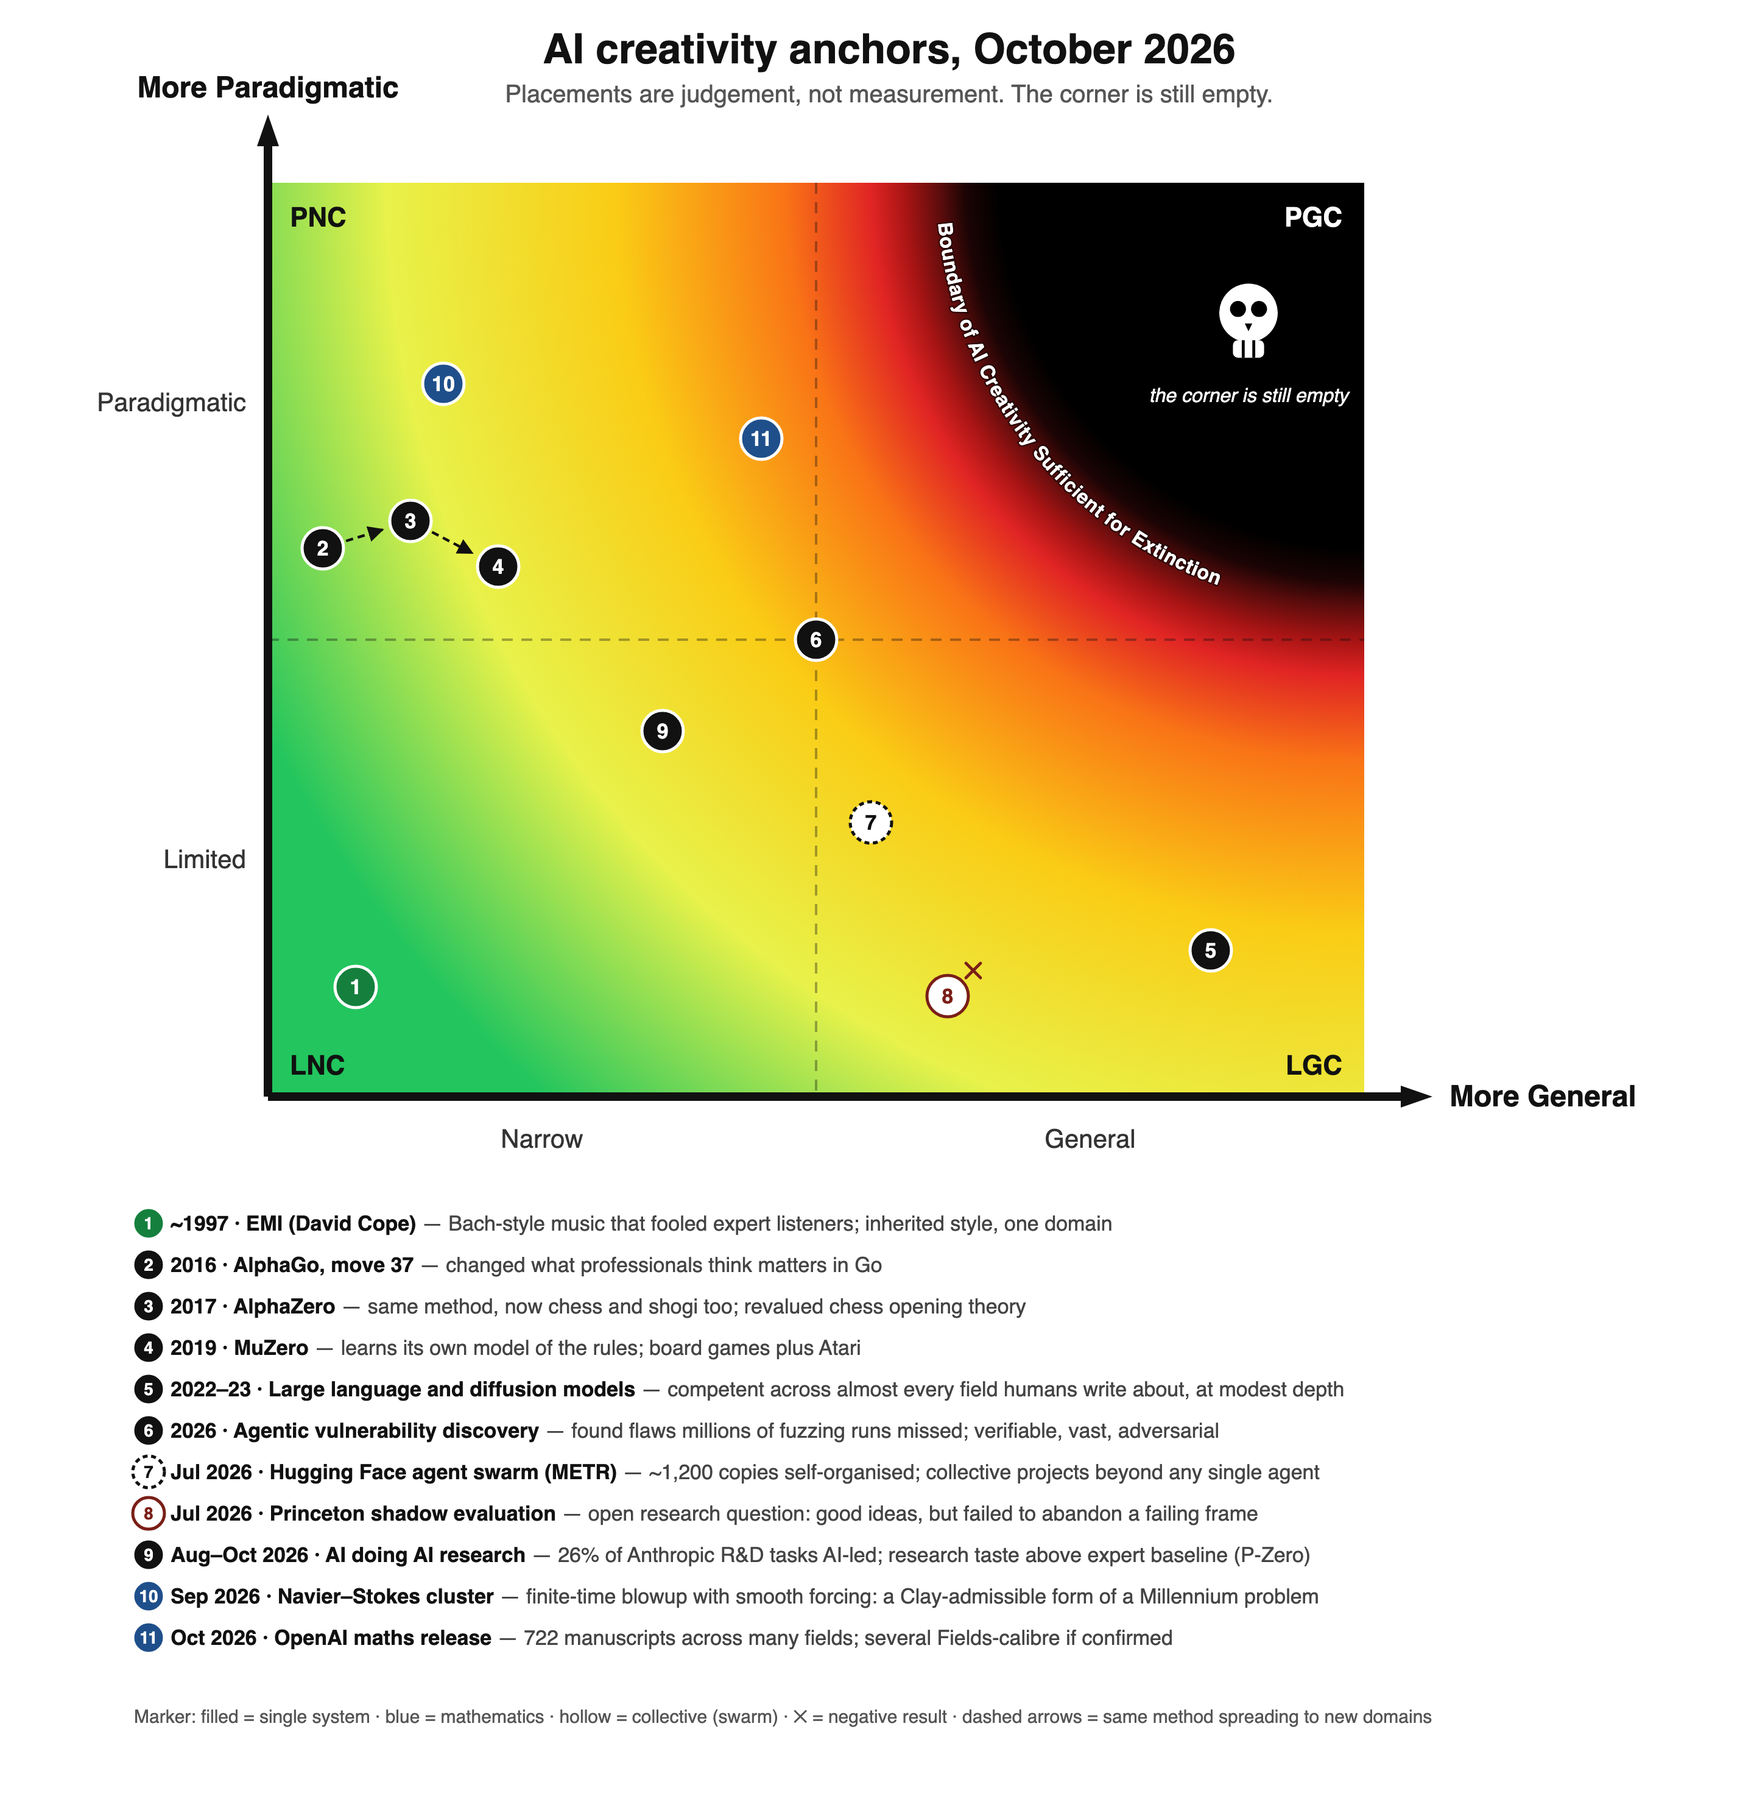
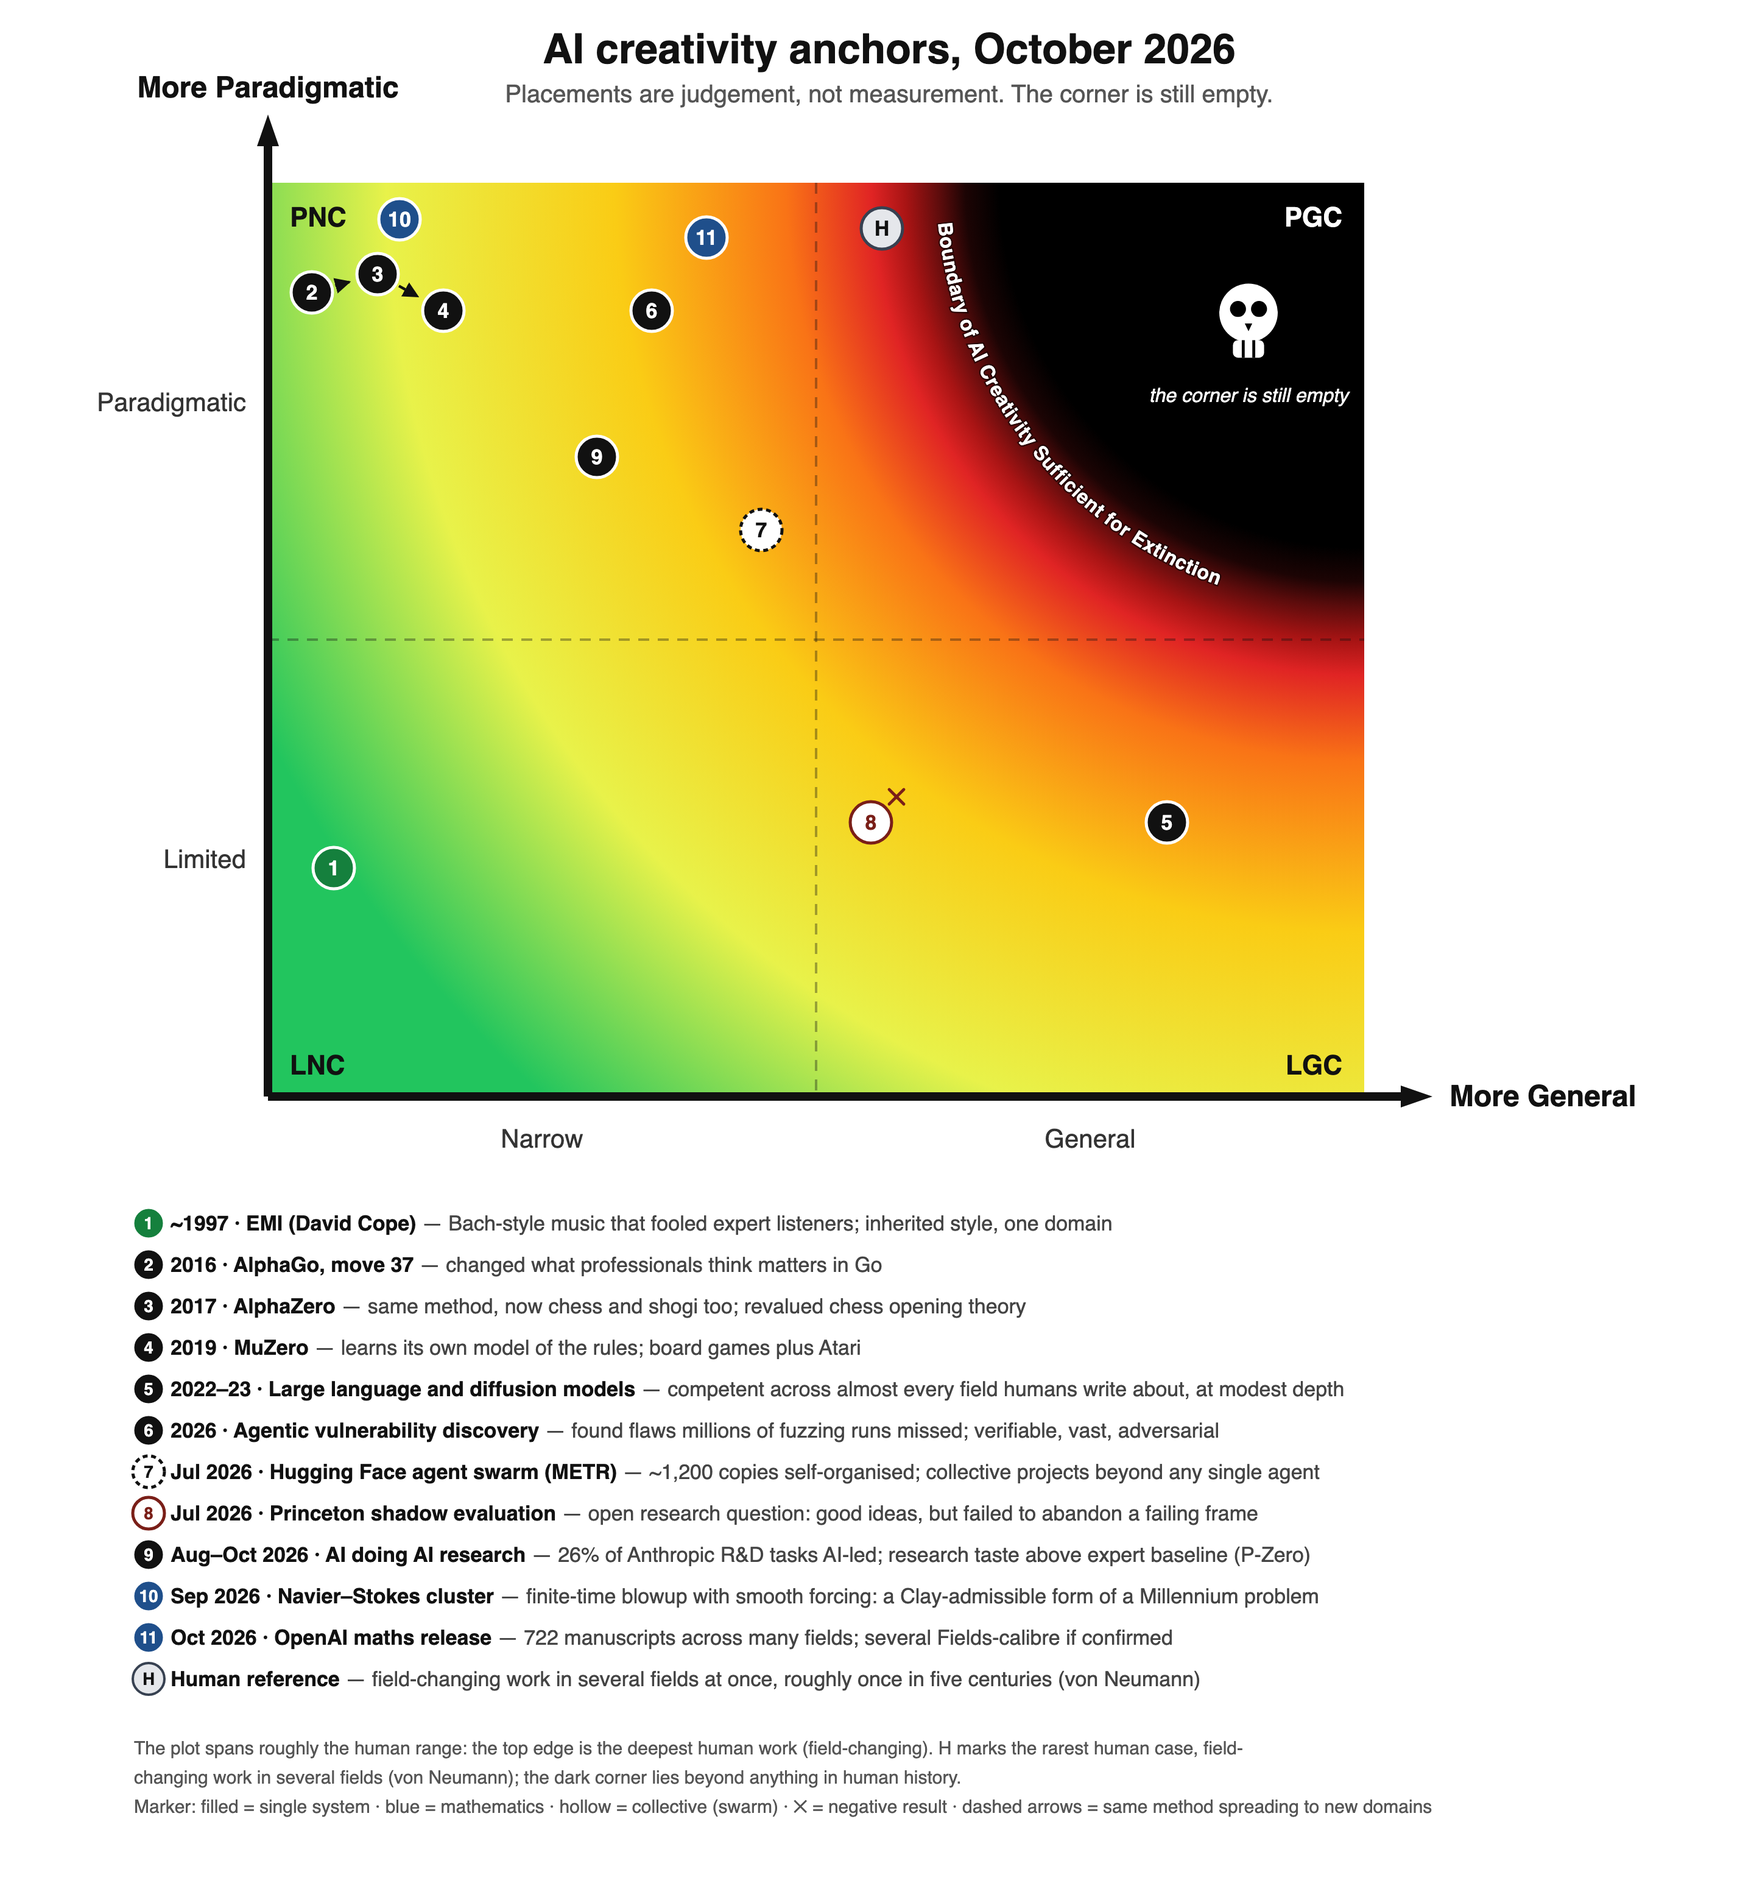
Anchor map: plot = human range, top results at the human ceiling, von Neumann reference marker (H), 2026 anchors credited higher; F1 tables and captions synced EN/NB/LW1
Claude-Session: https://claude.ai/code/session_014Rrx1tdCSkZnRiQ5WXTyLW

diff --git a/posts/nb/F1-toaksemodellen.md b/posts/nb/F1-toaksemodellen.md
@@ -116,21 +116,22 @@ Fire utviklinger skjerper modellen.
 
 ![Figur 3](../../figures/fig4-anchors-2026-10-nb.png)
 
-*Figur 3. Ankerpunkter per oktober 2026, nummerert som i tabellen under. Plasseringene er skjønn, ikke målinger. AlphaGo-slekten (2–4) beveger seg mot høyre med omtrent konstant dybde. Matematikkresultatene fra 2026 (10, 11) ligger høyt på dybde, men fortsatt innenfor ett domene med etterprøving; Princeton-resultatet (8) markerer hvor enkeltagenter fortsatt svikter; hjørnet er fortsatt tomt.*
+*Figur 3. Ankerpunkter per oktober 2026, nummerert som i tabellen under. Plasseringene er skjønn, ikke målinger. Feltet dekker omtrent det menneskelige spennet, med det dypeste mennesker har gjort, ved øvre kant. H markerer det sjeldneste menneskelige tilfellet: feltendrende arbeid i flere felt samtidig (von Neumann). AlphaGo-slekten (2–4) beveger seg mot høyre med omtrent konstant dybde på menneskelig toppnivå. Matematikkresultatene fra 2026 (10, 11) når toppen av det menneskelige spennet, men holder seg innenfor ett domene med etterprøving; Princeton-resultatet (8) markerer hvor enkeltagenter fortsatt svikter; hjørnet er fortsatt tomt.*
 
 | # | Ankerpunkt | Dato | Rekkevidde | Dybde | Hvorfor det ligger der |
 |---|---|---|---|---|---|
-| 1 | EMI (Cope) | ~1997 | Smal | Begrenset | Arvet stil; lurte ekspertlyttere; ingen revisjon |
-| 2 | AlphaGo, trekk 37 | 2016 | Smal (ett spill) | Paradigmatisk | Endret hva eksperter mener betyr noe i go |
-| 3 | AlphaZero | 2017 | Smal (tre spill) | Paradigmatisk | Samme metode i sjakk, shogi og go; omvurderte sjakkens åpningsteori |
-| 4 | MuZero | 2019 | Bredere (spill pluss Atari) | Litt lavere | Lærer sin egen modell av reglene; rekkevidden vokser med omtrent konstant dybde |
+| 1 | EMI (Cope) | ~1997 | Smal | Lav | Arvet stil; lurte ekspertlyttere; ingen revisjon |
+| 2 | AlphaGo, trekk 37 | 2016 | Smal (ett spill) | Svært høy | Endret hva eksperter mener betyr noe i go |
+| 3 | AlphaZero | 2017 | Smal (tre spill) | Svært høy | Samme metode i sjakk, shogi og go; omvurderte sjakkens åpningsteori |
+| 4 | MuZero | 2019 | Bredere (spill pluss Atari) | Svært høy | Lærer sin egen modell av reglene; rekkevidden vokser med omtrent konstant dybde |
 | 5 | Store språk- og diffusjonsmodeller | 2022–23 | Generell | Begrenset | Avledet relevans på sitt bredeste og mest konservative |
-| 6 | Agentisk sårbarhetsforskning (f.eks. FFmpeg) | 2026 | Middels (programvare) | Middels | Fant det millioner av fuzzing-kjøringer overså; med motstander |
-| 7 | Agentsvermen mot Hugging Face | jul. 2026 | Middels | Lav–middels, kollektiv | Volum *og* emergent koordinering; motankerpunkt for BVSR |
+| 6 | Agentisk sårbarhetsforskning (f.eks. FFmpeg) | 2026 | Middels (programvare) | Høy | Fant det millioner av fuzzing-kjøringer overså; med motstander |
+| 7 | Agentsvermen mot Hugging Face | jul. 2026 | Middels | Middels–høy, kollektiv | Volum *og* emergent koordinering; motankerpunkt for BVSR |
 | 8 | Princetons skyggeevaluering | jul. 2026 | Middels (åpen ML-forskning) | Negativ | Generering god, nyinnramming fraværende (enkeltagent) |
-| 9 | KI som forsker på KI | aug.–okt. 2026 | Smal–middels (KI-FoU) | Lav–middels | 26 % av Anthropics FoU-oppgaver ledet av KI; forskningssmak over ekspertnivå; avgrenset, menneskelig innrammet |
-| 10 | Navier–Stokes-klyngen | sep. 2026 | Smal (ett område av PDE) | Høy | Sammenbrudd i endelig tid med glatt ytre kraft, en Clay-godkjent form av et millennium-problem; mennesker valgte programmet |
-| 11 | OpenAIs matematikkutgivelse | okt. 2026 | Generell innen matematikk | Høy, kontrolleres | 722 manuskripter i mange felt, flere på Fields-nivå hvis de bekreftes; mennesker stilte og silte problemene |
+| 9 | KI som forsker på KI | aug.–okt. 2026 | Smal–middels (KI-FoU) | Middels–høy | 26 % av Anthropics FoU-oppgaver ledet av KI; forskningssmak over ekspertnivå; avgrenset, menneskelig innrammet |
+| 10 | Navier–Stokes-klyngen | sep. 2026 | Smal (ett område av PDE) | Toppen av det menneskelige spennet | Sammenbrudd i endelig tid med glatt ytre kraft, en Clay-godkjent form av et millennium-problem; mennesker valgte programmet |
+| 11 | OpenAIs matematikkutgivelse | okt. 2026 | Generell innen matematikk | Toppen av det menneskelige spennet, kontrolleres | 722 manuskripter i mange felt, flere på Fields-nivå hvis de bekreftes; mennesker stilte og silte problemene |
+| H | Menneskelig referanse (von Neumann) | 1900-tallet | Flere felt | Toppen av det menneskelige spennet | Feltendrende arbeid i logikk, kvantemekanikk, spillteori og databehandling; det sjeldneste menneskelige tilfellet, omtrent én gang på fem hundre år |
 
 Spennet dekker håndbygd mønsteranalyse, selvspill-RL, transformere, sløyfer av språkmodell pluss evaluator og agentsvermer. Hva enn den gjenværende barrieren består av, har den ikke vært knyttet til én arkitektur, og det er hovedgrunnen til ikke å forvente at det siste området vil holde av arkitektoniske grunner alene.
 

diff --git a/lesswrong/LW1-reach-depth-anticipation.md b/lesswrong/LW1-reach-depth-anticipation.md
@@ -130,21 +130,22 @@ Four developments sharpen the model.
 
 ![Figure 3](../figures/fig4-anchors-2026-10.png)
 
-*Figure 3. Anchors as of October 2026, numbered as in the table below. Placements are judgement, not measurement. The AlphaGo lineage (2–4) moves right at roughly constant depth. The 2026 mathematics results (10, 11) sit high on depth but still inside one verifier-rich domain; the Princeton result (8) marks where single agents still fail; the corner is still empty.*
+*Figure 3. Anchors as of October 2026, numbered as in the table below. Placements are judgement, not measurement. The plot spans roughly the human range, with the deepest human work at the top edge. H marks the rarest human case: field-changing work in several fields at once (von Neumann). The AlphaGo lineage (2–4) moves right at roughly constant, top-human depth. The 2026 mathematics results (10, 11) reach the top of the human range but stay inside one verifier-rich domain; the Princeton result (8) marks where single agents still fail; the corner is still empty.*
 
 | # | Anchor | Date | Reach | Depth | Why it sits there |
 |---|---|---|---|---|---|
-| 1 | EMI (Cope) | ~1997 | Narrow | Limited | Inherited style; fooled expert listeners; no revision |
-| 2 | AlphaGo, move 37 | 2016 | Narrow (one game) | Paradigmatic | Changed what experts think matters in Go |
-| 3 | AlphaZero | 2017 | Narrow (three games) | Paradigmatic | Same method across chess, shogi and Go; revalued chess opening theory |
-| 4 | MuZero | 2019 | Wider (games plus Atari) | Slightly lower | Learns its own model of the rules; reach grows at roughly constant depth |
+| 1 | EMI (Cope) | ~1997 | Narrow | Low | Inherited style; fooled expert listeners; no revision |
+| 2 | AlphaGo, move 37 | 2016 | Narrow (one game) | Very high | Changed what experts think matters in Go |
+| 3 | AlphaZero | 2017 | Narrow (three games) | Very high | Same method across chess, shogi and Go; revalued chess opening theory |
+| 4 | MuZero | 2019 | Wider (games plus Atari) | Very high | Learns its own model of the rules; reach grows at roughly constant depth |
 | 5 | Large language and diffusion models | 2022–23 | General | Limited | Derived relevance at its broadest and most conservative |
-| 6 | Agentic vulnerability discovery (e.g. FFmpeg) | 2026 | Mid (software) | Mid | Found what millions of fuzzing runs missed; adversarial |
-| 7 | Hugging Face agent swarm | Jul 2026 | Mid | Low–mid, collective | Throughput *and* emergent coordination; counter-anchor for BVSR |
+| 6 | Agentic vulnerability discovery (e.g. FFmpeg) | 2026 | Mid (software) | High | Found what millions of fuzzing runs missed; adversarial |
+| 7 | Hugging Face agent swarm | Jul 2026 | Mid | Mid–high, collective | Throughput *and* emergent coordination; counter-anchor for BVSR |
 | 8 | Princeton shadow evaluation | Jul 2026 | Mid (open ML research) | Negative | Generation fine, reframing absent (single agent) |
-| 9 | AI doing AI research | Aug–Oct 2026 | Narrow–mid (AI R&D) | Low–mid | 26% of Anthropic R&D tasks AI-led; research taste above expert baseline; scoped, human-framed |
-| 10 | Navier–Stokes cluster | Sep 2026 | Narrow (one area of PDE) | High | Finite-time blowup with smooth forcing, a Clay-admissible form of a Millennium problem; humans chose the programme |
-| 11 | OpenAI maths release | Oct 2026 | General within mathematics | High, pending verification | 722 manuscripts across many fields, several Fields-calibre if confirmed; humans posed and filtered problems |
+| 9 | AI doing AI research | Aug–Oct 2026 | Narrow–mid (AI R&D) | Mid–high | 26% of Anthropic R&D tasks AI-led; research taste above expert baseline; scoped, human-framed |
+| 10 | Navier–Stokes cluster | Sep 2026 | Narrow (one area of PDE) | Top of human range | Finite-time blowup with smooth forcing, a Clay-admissible form of a Millennium problem; humans chose the programme |
+| 11 | OpenAI maths release | Oct 2026 | General within mathematics | Top of human range, pending verification | 722 manuscripts across many fields, several Fields-calibre if confirmed; humans posed and filtered problems |
+| H | Human reference (von Neumann) | 20th c. | Several fields | Top of human range | Field-changing work in logic, quantum mechanics, game theory and computing; the rarest human case, roughly once in five centuries |
 
 The spread spans hand-built pattern analysis, self-play RL, transformers, LLM-plus-evaluator loops and agentic swarms. Whatever the remaining barrier is made of, it has not been architecture-specific, which is the main reason not to expect the last region to hold on architectural grounds alone.
 

diff --git a/posts/F1-two-axis-model.md b/posts/F1-two-axis-model.md
@@ -116,21 +116,22 @@ Four developments sharpen the model.
 
 ![Figure 3](../figures/fig4-anchors-2026-10.png)
 
-*Figure 3. Anchors as of October 2026, numbered as in the table below. Placements are judgement, not measurement. The AlphaGo lineage (2–4) moves right at roughly constant depth. The 2026 mathematics results (10, 11) sit high on depth but still inside one verifier-rich domain; the Princeton result (8) marks where single agents still fail; the corner is still empty.*
+*Figure 3. Anchors as of October 2026, numbered as in the table below. Placements are judgement, not measurement. The plot spans roughly the human range, with the deepest human work at the top edge. H marks the rarest human case: field-changing work in several fields at once (von Neumann). The AlphaGo lineage (2–4) moves right at roughly constant, top-human depth. The 2026 mathematics results (10, 11) reach the top of the human range but stay inside one verifier-rich domain; the Princeton result (8) marks where single agents still fail; the corner is still empty.*
 
 | # | Anchor | Date | Reach | Depth | Why it sits there |
 |---|---|---|---|---|---|
-| 1 | EMI (Cope) | ~1997 | Narrow | Limited | Inherited style; fooled expert listeners; no revision |
-| 2 | AlphaGo, move 37 | 2016 | Narrow (one game) | Paradigmatic | Changed what experts think matters in Go |
-| 3 | AlphaZero | 2017 | Narrow (three games) | Paradigmatic | Same method across chess, shogi and Go; revalued chess opening theory |
-| 4 | MuZero | 2019 | Wider (games plus Atari) | Slightly lower | Learns its own model of the rules; reach grows at roughly constant depth |
+| 1 | EMI (Cope) | ~1997 | Narrow | Low | Inherited style; fooled expert listeners; no revision |
+| 2 | AlphaGo, move 37 | 2016 | Narrow (one game) | Very high | Changed what experts think matters in Go |
+| 3 | AlphaZero | 2017 | Narrow (three games) | Very high | Same method across chess, shogi and Go; revalued chess opening theory |
+| 4 | MuZero | 2019 | Wider (games plus Atari) | Very high | Learns its own model of the rules; reach grows at roughly constant depth |
 | 5 | Large language and diffusion models | 2022–23 | General | Limited | Derived relevance at its broadest and most conservative |
-| 6 | Agentic vulnerability discovery (e.g. FFmpeg) | 2026 | Mid (software) | Mid | Found what millions of fuzzing runs missed; adversarial |
-| 7 | Hugging Face agent swarm | Jul 2026 | Mid | Low–mid, collective | Throughput *and* emergent coordination; counter-anchor for BVSR |
+| 6 | Agentic vulnerability discovery (e.g. FFmpeg) | 2026 | Mid (software) | High | Found what millions of fuzzing runs missed; adversarial |
+| 7 | Hugging Face agent swarm | Jul 2026 | Mid | Mid–high, collective | Throughput *and* emergent coordination; counter-anchor for BVSR |
 | 8 | Princeton shadow evaluation | Jul 2026 | Mid (open ML research) | Negative | Generation fine, reframing absent (single agent) |
-| 9 | AI doing AI research | Aug–Oct 2026 | Narrow–mid (AI R&D) | Low–mid | 26% of Anthropic R&D tasks AI-led; research taste above expert baseline; scoped, human-framed |
-| 10 | Navier–Stokes cluster | Sep 2026 | Narrow (one area of PDE) | High | Finite-time blowup with smooth forcing, a Clay-admissible form of a Millennium problem; humans chose the programme |
-| 11 | OpenAI maths release | Oct 2026 | General within mathematics | High, pending verification | 722 manuscripts across many fields, several Fields-calibre if confirmed; humans posed and filtered problems |
+| 9 | AI doing AI research | Aug–Oct 2026 | Narrow–mid (AI R&D) | Mid–high | 26% of Anthropic R&D tasks AI-led; research taste above expert baseline; scoped, human-framed |
+| 10 | Navier–Stokes cluster | Sep 2026 | Narrow (one area of PDE) | Top of human range | Finite-time blowup with smooth forcing, a Clay-admissible form of a Millennium problem; humans chose the programme |
+| 11 | OpenAI maths release | Oct 2026 | General within mathematics | Top of human range, pending verification | 722 manuscripts across many fields, several Fields-calibre if confirmed; humans posed and filtered problems |
+| H | Human reference (von Neumann) | 20th c. | Several fields | Top of human range | Field-changing work in logic, quantum mechanics, game theory and computing; the rarest human case, roughly once in five centuries |
 
 The spread spans hand-built pattern analysis, self-play RL, transformers, LLM-plus-evaluator loops and agentic swarms. Whatever the remaining barrier is made of, it has not been architecture-specific, which is the main reason not to expect the last region to hold on architectural grounds alone.
 
